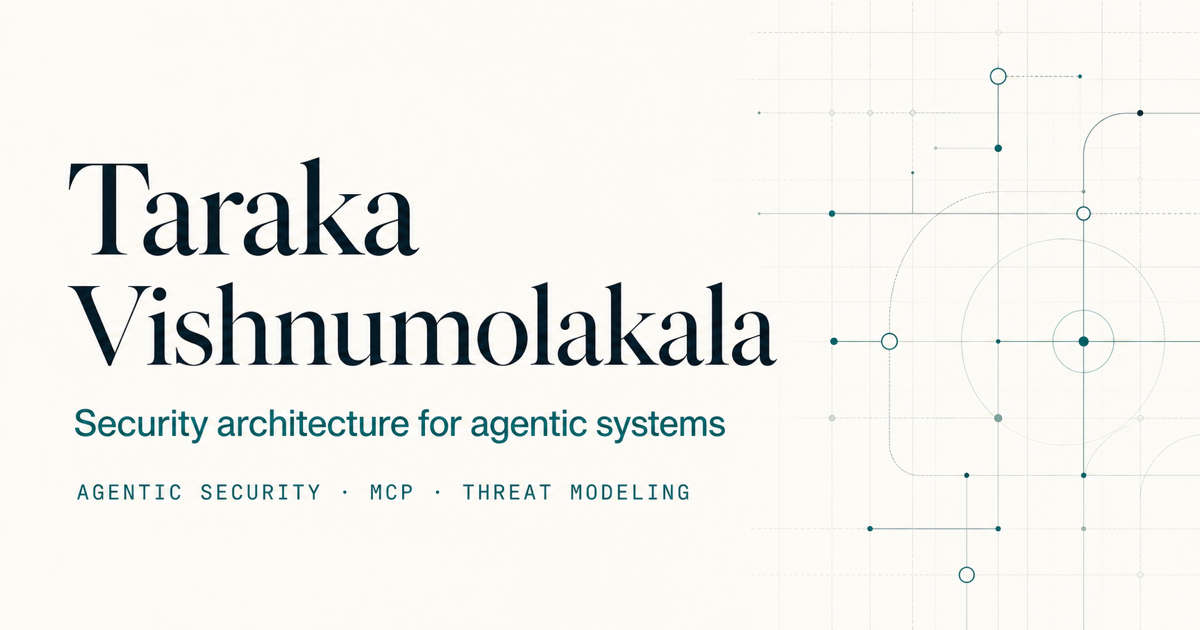
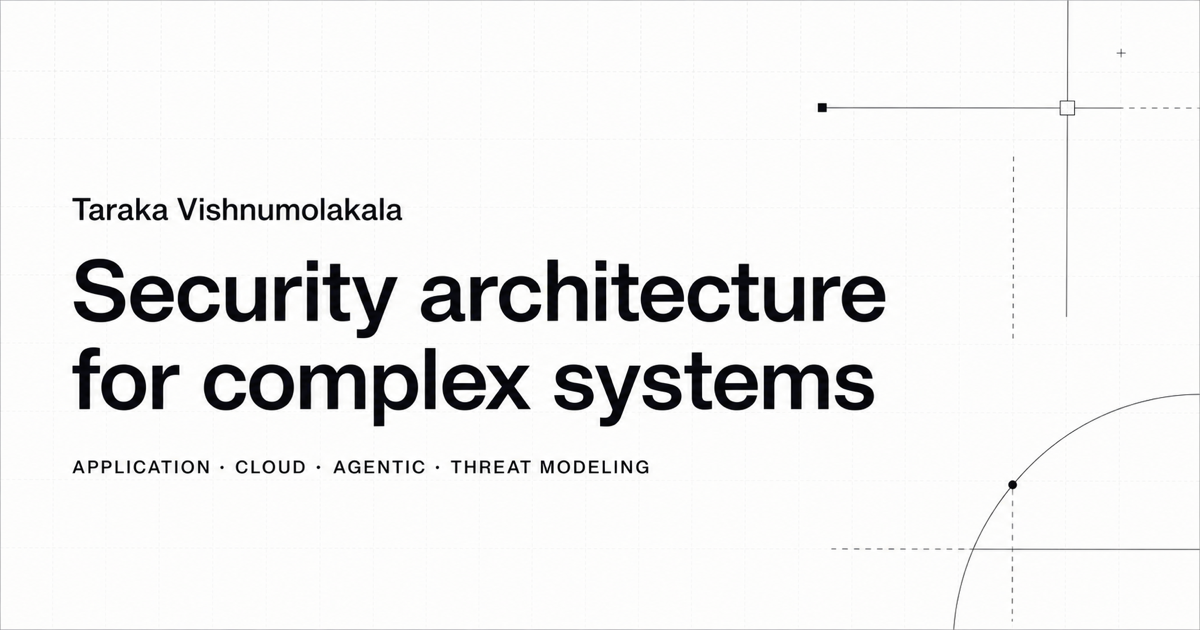
Restore monochrome multi-domain design

diff --git a/src/styles/global.css b/src/styles/global.css
@@ -1,29 +1,29 @@
 :root {
 	--font-sans: "Public Sans", system-ui, -apple-system, BlinkMacSystemFont, "Segoe UI", sans-serif;
-	--font-display: "Source Serif 4", Georgia, "Times New Roman", serif;
+	--font-display: var(--font-sans);
 	--font-mono: ui-monospace, SFMono-Regular, "SF Mono", Menlo, Monaco, Consolas, monospace;
 
-	--bg: #f4f6f3;
-	--bg-subtle: #edf1ed;
+	--bg: #fafafa;
+	--bg-subtle: #ededed;
 	--bg-card: #ffffff;
-	--bg-code: #eef2ef;
-	--bg-code-border: #d9e1dc;
-	--text: #223039;
-	--text-secondary: #526169;
-	--text-muted: #68777e;
-	--text-faint: #87939a;
-	--heading: #0d2028;
-	--bold: #10272f;
-	--accent: #0f7175;
-	--accent-strong: #09575b;
-	--accent-soft: #dcebea;
-	--accent-faint: #edf5f4;
-	--border: #d8e0dc;
-	--border-soft: #e5ebe7;
-	--selection: rgba(15, 113, 117, 0.17);
-	--highlight-bg: rgba(15, 113, 117, 0.11);
-	--box-shadow: 0 18px 50px rgba(16, 39, 47, 0.1);
-	--box-shadow-soft: 0 8px 24px rgba(16, 39, 47, 0.07);
+	--bg-code: #f2f2f2;
+	--bg-code-border: #dddddd;
+	--text: #262626;
+	--text-secondary: #555555;
+	--text-muted: #6b6b6b;
+	--text-faint: #8a8a8a;
+	--heading: #111111;
+	--bold: #111111;
+	--accent: #333333;
+	--accent-strong: #111111;
+	--accent-soft: #e4e4e4;
+	--accent-faint: #f0f0f0;
+	--border: #d8d8d8;
+	--border-soft: #e6e6e6;
+	--selection: rgba(17, 17, 17, 0.14);
+	--highlight-bg: rgba(17, 17, 17, 0.08);
+	--box-shadow: 0 18px 50px rgba(0, 0, 0, 0.1);
+	--box-shadow-soft: 0 8px 24px rgba(0, 0, 0, 0.07);
 	--container: 1200px;
 }
 
@@ -47,8 +47,15 @@ body {
 	display: flex;
 	flex-direction: column;
 	background:
-		radial-gradient(circle at 86% 2%, rgba(15, 113, 117, 0.08), transparent 28rem),
+		radial-gradient(circle at 86% 2%, rgba(0, 0, 0, 0.035), transparent 28rem),
+		linear-gradient(rgba(17, 17, 17, 0.028) 1px, transparent 1px),
+		linear-gradient(90deg, rgba(17, 17, 17, 0.028) 1px, transparent 1px),
 		var(--bg);
+	background-size:
+		auto,
+		64px 64px,
+		64px 64px,
+		auto;
 	color: var(--text);
 	font-size: 1rem;
 	line-height: 1.7;
@@ -174,7 +181,7 @@ img {
 .button-primary {
 	background: var(--heading);
 	color: #fff;
-	box-shadow: 0 8px 22px rgba(13, 32, 40, 0.16);
+	box-shadow: 0 8px 22px rgba(0, 0, 0, 0.16);
 }
 
 .button-primary:hover {
@@ -259,7 +266,7 @@ mark {
 .prose a {
 	color: var(--accent-strong);
 	text-decoration: underline;
-	text-decoration-color: rgba(15, 113, 117, 0.35);
+	text-decoration-color: rgba(17, 17, 17, 0.35);
 	text-decoration-thickness: 1px;
 	text-underline-offset: 3px;
 }
@@ -293,7 +300,7 @@ mark {
 	padding: 1.25rem;
 	border: 1px solid var(--bg-code-border);
 	border-radius: 10px;
-	background: #e9eeeb;
+	background: #eeeeee;
 	overflow-x: auto;
 }
 
@@ -378,11 +385,11 @@ input {
 
 ::-webkit-scrollbar-thumb {
 	border-radius: 4px;
-	background: rgba(13, 32, 40, 0.16);
+	background: rgba(17, 17, 17, 0.16);
 }
 
 ::-webkit-scrollbar-thumb:hover {
-	background: rgba(13, 32, 40, 0.3);
+	background: rgba(17, 17, 17, 0.3);
 }
 
 .sr-only {

diff --git a/src/consts.ts b/src/consts.ts
@@ -3,4 +3,4 @@
 
 export const SITE_TITLE = 'Taraka Vishnumolakala';
 export const SITE_DESCRIPTION =
-	'Security architecture and research on agentic AI, MCP, application security, cloud security, and threat modeling.';
+	'Security architecture and research across application security, APIs, cloud infrastructure, agentic systems, and threat modeling.';
